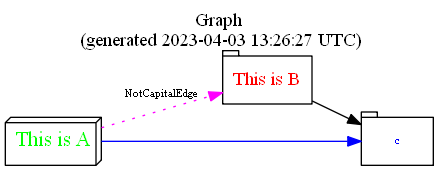
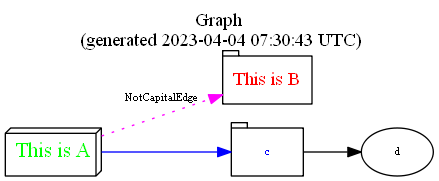
feat: Update dot option definitions to latest (2015)
- Align comments for graph options
- Fix URL to dot guide PDF
- Update README wording and added rdoc refs

diff --git a/lib/rgl/rdot.rb b/lib/rgl/rdot.rb
@@ -7,13 +7,14 @@ module RGL
   # It also supports undirected edges.
   module DOT
 
-    # options for node declaration
+    # attributes due to
+    # https://www.graphviz.org/pdf/dotguide.pdf
+    # January 5, 2015
 
+    # options for node declaration
     NODE_OPTS = [
-      # attributes due to
-      # https://www.graphviz.org/Documentation/dotguide.pdf
-      # February 23, 2008
       'color', # default: black; node shape color
+      'colorscheme', # default: X11; scheme for interpreting color names
       'comment', # any string (format-dependent)
       'distortion', # default: 0.0; node distortion for shape=polygon
       'fillcolor', # default: lightgrey/black; node fill color
@@ -23,46 +24,63 @@ module RGL
       'fontsize', # default: 14; point size of label
       'group', # name of node's group
       'height', # default: .5; height in inches
+      'id', # any string (user-defined output object tags)
       'label', # default: node name; any string
+      'labelloc', # default: c; node label vertical alignment
       'layer', # default: overlay range; all, id or id:id
-      'orientation', # dafault: 0.0; node rotation angle
+      'margin', # default: 0.11,0.55; space around label
+      'nojustify', # default: false; if true, justify to label, not node
+      'orientation', # default: 0.0; node rotation angle
+      'penwidth', # default: 1.0; width of pen for drawing boundaries, in points
       'peripheries', # shape-dependent number of node boundaries
       'regular', # default: false; force polygon to be regular
+      'samplepoints', # default 8 or 20; number vertices to convert circle or ellipse
       'shape', # default: ellipse; node shape; see Section 2.1 and Appendix E
       'shapefile', # external EPSF or SVG custom shape file
       'sides', # default: 4; number of sides for shape=polygon
       'skew', # default: 0.0; skewing of node for shape=polygon
       'style', # graphics options, e.g. bold, dotted, filled; cf. Section 2.3
+      'target', # if URL is set, determines browser window for URL
+      'tooltip', # default: label, tooltip annotation for node
       'URL', # URL associated with node (format-dependent)
       'width', # default: .75; width in inches
-      'z' # default: 0.0; z coordinate for VRML output
-    ]
+    ].freeze
 
+    # maintained for backward compatibility or rdot internal
     NODE_OPTS_LGCY = [
-      # maintained for backward compatibility or rdot internal
       'bottomlabel', # auxiliary label for nodes of shape M*
       'bgcolor',
       'rank',
       'toplabel' # auxiliary label for nodes of shape M*
-    ]
+    ].freeze
 
     # options for edge declaration
-
     EDGE_OPTS = [
       'arrowhead', # default: normal; style of arrowhead at head end
       'arrowsize', # default: 1.0; scaling factor for arrowheads
       'arrowtail', # default: normal; style of arrowhead at tail end
       'color', # default: black; edge stroke color
+      'colorscheme', # default: X11; scheme for interpreting color names
       'comment', # any string (format-dependent)
       'constraint', # default: true use edge to affect node ranking
       'decorate', # if set, draws a line connecting labels with their edges
       'dir', # default: forward; forward, back, both, or none
+      'edgeURL', # URL attached to non-label part of edge
+      'edgehref', # synonym for edgeURL
+      'edgetarget', # if URL is set, determines browser window for URL
+      'edgetooltip', # default: label; tooltip annotation for non-label part of edge
       'fontcolor', # default: black type face color
       'fontname', # default: Times-Roman; font family
       'fontsize', # default: 14; point size of label
-      'headlabel', # label placed near head of edge
+      'headclip', # default: true; if false, edge is not clipped to head node boundary
+      'headhref', # synonym for headURL
+      'headlabel', # default: label; placed near head of edge
       'headport', # n,ne,e,se,s,sw,w,nw
+      'headtarget', # if headURL is set, determines browser window for URL
+      'headtooltip', # default: label; tooltip annotation near head of edge
       'headURL', # URL attached to head label if output format is ismap
+      'href', # alias for URL
+      'id', # any string (user-defined output object tags)
       'label', # edge label
       'labelangle', # default: -25.0; angle in degrees which head or tail label is rotated off edge
       'labeldistance', # default: 1.0; scaling factor for distance of head or tail label from node
@@ -70,49 +88,65 @@ module RGL
       'labelfontcolor', # default: black; type face color for head and tail labels
       'labelfontname', # default: Times-Roman; font family for head and tail labels
       'labelfontsize', # default: 14 point size for head and tail labels
+      'labelhref', # synonym for labelURL
+      'labelURL', # URL for label, overrides edge URL
+      'labeltarget', # if URL or labelURL is set, determines browser window for URL
+      'labeltooltip', # default: label; tooltip annotation near label
       'layer', # default: overlay range; all, id or id:id
       'lhead', # name of cluster to use as head of edge
       'ltail', # name of cluster to use as tail of edge
       'minlen', # default: 1 minimum rank distance between head and tail
+      'penwidth', # default: 1.0; width of pen for drawing boundaries, in points
       'samehead', # tag for head node; edge heads with the same tag are merged onto the same port
       'sametail', # tag for tail node; edge tails with the same tag are merged onto the same port
       'style', # graphics options, e.g. bold, dotted, filled; cf. Section 2.3
+      'weight', # default: 1; integer cost of stretching an edge
+      'tailclip', # default: true; if false, edge is not clipped to tail node boundary
+      'tailhref', # synonym for tailURL
       'taillabel', # label placed near tail of edge
       'tailport', # n,ne,e,se,s,sw,w,nw
+      'tailtarget', # if tailURL is set, determines browser window for URL
+      'tailtooltip', # default: label; tooltip annotation near tail of edge
       'tailURL', # URL attached to tail label if output format is ismap
-      'weight' # default: 1; integer cost of stretching an edge
-    ]
+      'target', # if URL is set, determines browser window for URL
+      'tooltip' # default: label; tooltip annotation for edge
+    ].freeze
 
-    EDGE_OPTS_LGCY = [
-      # maintained for backward compatibility or rdot internal
-      'id'
-    ]
+    # maintained for backward compatibility or rdot internal
+    EDGE_OPTS_LGCY = [].freeze
 
     # options for graph declaration
-
     GRAPH_OPTS = [
+      'aspect', # controls aspect ratio adjustment
       'bgcolor', # background color for drawing, plus initial fill color
       'center', # default: false; center draing on page
       'clusterrank', # default: local; may be "global" or "none"
       'color', # default: black; for clusters, outline color, and fill color if
                # fillcolor not defined
+      'colorscheme', # default: X11; scheme for interpreting color names
       'comment', # any string (format-dependent)
       'compound', # default: false; allow edges between clusters
       'concentrate', # default: false; enables edge concentrators
+      'dpi', # default: 96; dots per inch for image output
       'fillcolor', # default: black; cluster fill color
       'fontcolor', # default: black; type face color
       'fontname', # default: Times-Roman; font family
+      'fontnames', # svg, ps, gd (SVG only)
       'fontpath', # list of directories to search for fonts
       'fontsize', # default: 14; point size of label
+      'id', # any string (user-defined output object tags)
       'label', # any string
       'labeljust', # default: centered; "l" and "r" for left- and right-justified
                    # cluster labels, respectively
       'labelloc', # default: top; "t" and "b" for top- and bottom-justified
                   # cluster labels, respectively
+      'landscape', # if true, means orientation=landscape
       'layers', # id:id:id...
+      'layersep', # default: : ; specifies separator character to split layers'
       'margin', # default: .5; margin included in page, inches
       'mclimit', # default: 1.0; scale factor for mincross iterations
       'nodesep', # default: .25; separation between nodes, in inches.
+      'nojustify', # default: false; if true, justify to label, not graph
       'nslimit', # if set to "f", bounds network simplex iterations by
                  # (f)(number of nodes) when setting x-coordinates
       'nslimit1', # if set to "f", bounds network simplex iterations by
@@ -120,24 +154,38 @@ module RGL
       'ordering', # if "out" out edge order is preserved
       'orientation', # default: portrait; if "rotate" is not used and the value is
                      # "landscape", use landscape orientation
+      'outputorder', # default: breadthfirst; or nodesfirst, edgesfirst
       'page', # unit of pagination, e.g. "8.5,11"
+      'pagedir', # default: BL; traversal order of pages
+      'pencolor', # default: black; color for drawing cluster boundaries
+      'penwidth', # default: 1.0; width of pen for drawing boundaries, in points
+      'peripheries', # default: 1; shape-dependent number of node boundaries
       'rank', # "same", "min", "max", "source", or "sink"
       'rankdir', # default: TB; "LR" (left to right) or "TB" (top to bottom)
       'ranksep', # default: .75; separation between ranks, in inches.
       'ratio', # approximate aspect ratio desired, "fill" or "auto"
+      'remincross', # default: true; whether to run edge crossing minimization
+                    # a second time when there are multiple clusters
+      'rotate', # If 90, set orientation to landscape
       'samplepoints', # default: 8; number of points used to represent ellipses
                       # and circles on output
       'searchsize', # default: 30; maximum edges with negative cut values to check
                     # when looking for a minimum one during network simplex
       'size', # maximum drawing size, in inches
+      'splines', # draw edges as splines, polylines, lines
       'style', # graphics options, e.g. "filled" for clusters
+      'stylesheet', # pathname or URL to XML style sheet for SVG
+      'target', # if URL is set, determines browser window for URL
+      'tooltip', # default: label; tooltip annotation for cluster
+      'truecolor', # if set, force 24 bit or indexed color in image output
+      'viewport', # clipping window on output
       'URL', # URL associated with graph (format-dependent)
-    ]
+    ].freeze
 
+    # maintained for backward compatibility or rdot internal
     GRAPH_OPTS_LGCY = [
-      # maintained for backward compatibility or rdot internal
       'layerseq'
-    ]
+    ].freeze
 
     # Ancestor of Edge, Node, and Graph.
     #
@@ -185,15 +233,14 @@ module RGL
         # Return a quoted version of the label otherwise.
         '"' + label.split(/(\\n|\\r|\\l)/).collect do |part|
           case part
-            when "\\n", "\\r", "\\l"
-              part
-            else
-              part.gsub('\\', '\\\\\\\\').gsub('"', '\\\\"').gsub("\n", '\\n')
+          when "\\n", "\\r", "\\l"
+            part
+          else
+            part.gsub('\\', '\\\\\\\\').gsub('"', '\\\\"').gsub("\n", '\\n')
           end
         end.join + '"'
       end
     end
-
 
     # Ports are used when a Node instance has its `shape' option set to
     # _record_ or _Mrecord_. Ports can be nested.
@@ -293,11 +340,10 @@ module RGL
           leader + quote_ID(@name) unless @name.nil?
         else
           leader + (@name.nil? ? '' : quote_ID(@name) + " ") + "[\n" +
-              stringified_options + "\n" +
-              leader + "]"
+          stringified_options + "\n" +
+          leader + "]"
         end
       end
-
     end # class Node
 
     # A graph representation. Whether or not it is rendered as directed or
@@ -374,9 +420,8 @@ module RGL
         end.join("\n\n")
 
         hdr + (options.empty? ? '' : options + "\n\n") +
-            (elements.empty? ? '' : elements + "\n") + leader + "}"
+        (elements.empty? ? '' : elements + "\n") + leader + "}"
       end
-
     end # class Graph
 
     # A digraph is a directed graph representation which is the same as a Graph
@@ -458,8 +503,8 @@ module RGL
           leader + quote_ID(f_s) + ' ' + edge_link + ' ' + quote_ID(t_s)
         else
           leader + quote_ID(f_s) + ' ' + edge_link + ' ' + quote_ID(t_s) + " [\n" +
-              stringified_options + "\n" +
-              leader + "]"
+          stringified_options + "\n" +
+          leader + "]"
         end
       end
 

diff --git a/test/dot_test.rb b/test/dot_test.rb
@@ -30,14 +30,12 @@ class TestDot < Test::Unit::TestCase
   end
 
   def test_dot_digraph_with_complicated_options
-    graph = RGL::DirectedAdjacencyGraph['a', 'b', 'c', 'd']
+    graph = RGL::DirectedAdjacencyGraph['a','b', 'c','d', 'a','c']
 
     graph.set_vertex_options('a', label: 'This is A', shape: 'box3d', fontcolor: 'green', fontsize: 16)
     graph.set_vertex_options('b', label: 'This is B', shape: 'tab', fontcolor: 'red', fontsize: 14)
     graph.set_vertex_options('c', shape: 'tab', fontcolor: 'blue')
 
-    graph.add_edge('a', 'b')
-    graph.add_edge('a', 'c')
     graph.set_edge_options('a', 'b', label: 'NotCapitalEdge', style: 'dotted', direction: 'back', color: 'magenta')
     graph.set_edge_options('a', 'c', weight: 5, color: 'blue')
 

diff --git a/lib/rgl/dot.rb b/lib/rgl/dot.rb
@@ -11,8 +11,6 @@ require 'rgl/rdot'
 
 module RGL
   module Graph
-    attr_reader :vertex_options, :edge_options
-
     # Returns a label for vertex v. Default is v.to_s
     def vertex_label(v)
       v.to_s

diff --git a/README.md b/README.md
@@ -227,13 +227,15 @@ This graph shows all loaded RGL modules:
 Look for more in
 [examples](https://github.com/monora/rgl/tree/master/examples) directory.
 
-## (Optional) Configuring DOT output options
+## (Optional) Configuring Graphviz DOT output options
 
 The default graph will use standard DOT output visuals.
 
-If you wish to configure the styling of the diagram we provide the methods `set_edge_options` and `set_vertex_options` for this purpose. You can use any options from the `NODE_OPTS` and `EDGE_OPTS` constants in `lib/rgl/rdot.rb`. Simply use the exact option name as an argument in your method call.
+If you wish to configure the styling of the diagram, module {RGL::DOT} adds the methods {RGL::Graph#set_edge_options} and {RGL::Graph#set_vertex_options} for this purpose. You can use any options from the {RGL::DOT::NODE_OPTS} and {RGL::DOT::EDGE_OPTS} constants in {RGL::DOT::EDGE_OPTS}. Use the exact option name as an argument in your method call.
 
-You can also configure the overall appearance of the graph by passing a hash of options from `GRAPH_OPTS` to the output method. The example below shows an example of styling vertices, edges and setting some basic graph options.
+You can also configure the overall appearance of the graph by passing a hash of options from {RGL::DOT::GRAPH_OPTS} to the output method. The example below shows styling of vertices, edges and setting some basic graph options.
+
+The available options are described in the [GraphViz DOT Spec](https://www.graphviz.org/pdf/dotguide.pdf)
 
 ![colored diagram](images/styled_graph.png "Colored DOT graph")
 
@@ -241,9 +243,8 @@ You can also configure the overall appearance of the graph by passing a hash of 
 require 'rgl/adjacency'
 require 'rgl/dot'
 
-graph = RGL::DirectedAdjacencyGraph['a', 'b', 'b', 'c']
+graph = RGL::DirectedAdjacencyGraph['a','b', 'c','d']
 
-graph.add_edge('a', 'b')
 graph.add_edge('a', 'c')
 
 # Vertex Settings
